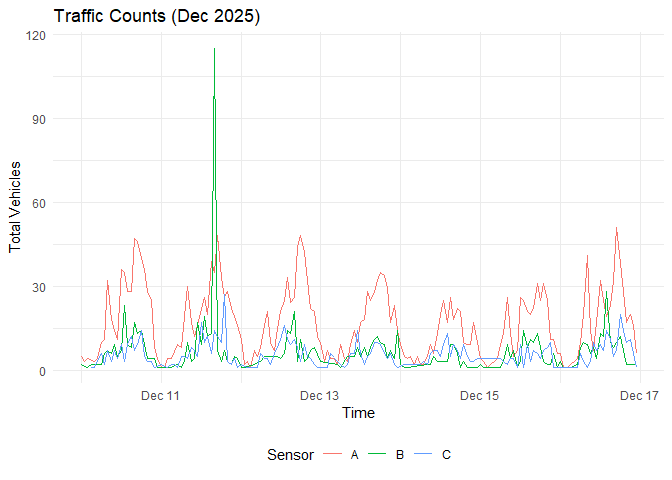
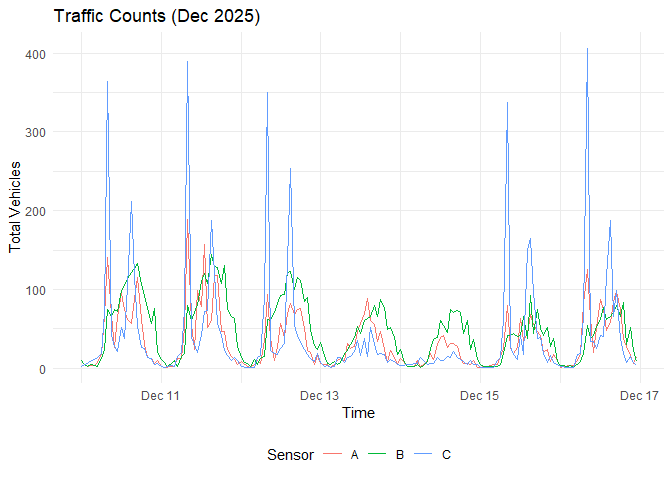
Demonstrate date limits, close #1

diff --git a/README.md b/README.md
@@ -98,6 +98,21 @@ counts_df <- get_countline_counts(sampled_ids, from = from_time, to = to_time) |
   mutate(sensor = id_lookup[id])
 ```
 
+The package automatically batches requests \>7 days to work around API
+limits. Here’s a 365-day example:
+
+``` r
+# Get a full year of data (automatically batched into 7-day chunks)
+from_year <- as.POSIXct("2025-01-01", tz = "UTC")
+to_year <- as.POSIXct("2025-12-17", tz = "UTC")
+
+yearly_counts <- get_countline_counts(sampled_ids[1], from = from_year, to = to_year)
+nrow(yearly_counts)
+#> [1] 7949
+range(yearly_counts$from)
+#> [1] "2025-01-01 00:00:00 UTC" "2025-12-16 23:00:00 UTC"
+```
+
 Note: this will fail if the sensors don’t have speed recording enabled:
 
 ``` r
@@ -119,9 +134,9 @@ summary_stats
 #> # A tibble: 3 × 3
 #>   sensor observations total_count
 #>   <chr>         <int>       <dbl>
-#> 1 A               162        2804
-#> 2 B               142         961
-#> 3 C               143         834
+#> 1 A               158        5641
+#> 2 B               164        7804
+#> 3 C               155        6536
 
 # Plot traffic counts over time
 ggplot(counts_df, aes(x = from, y = count, color = sensor)) +
